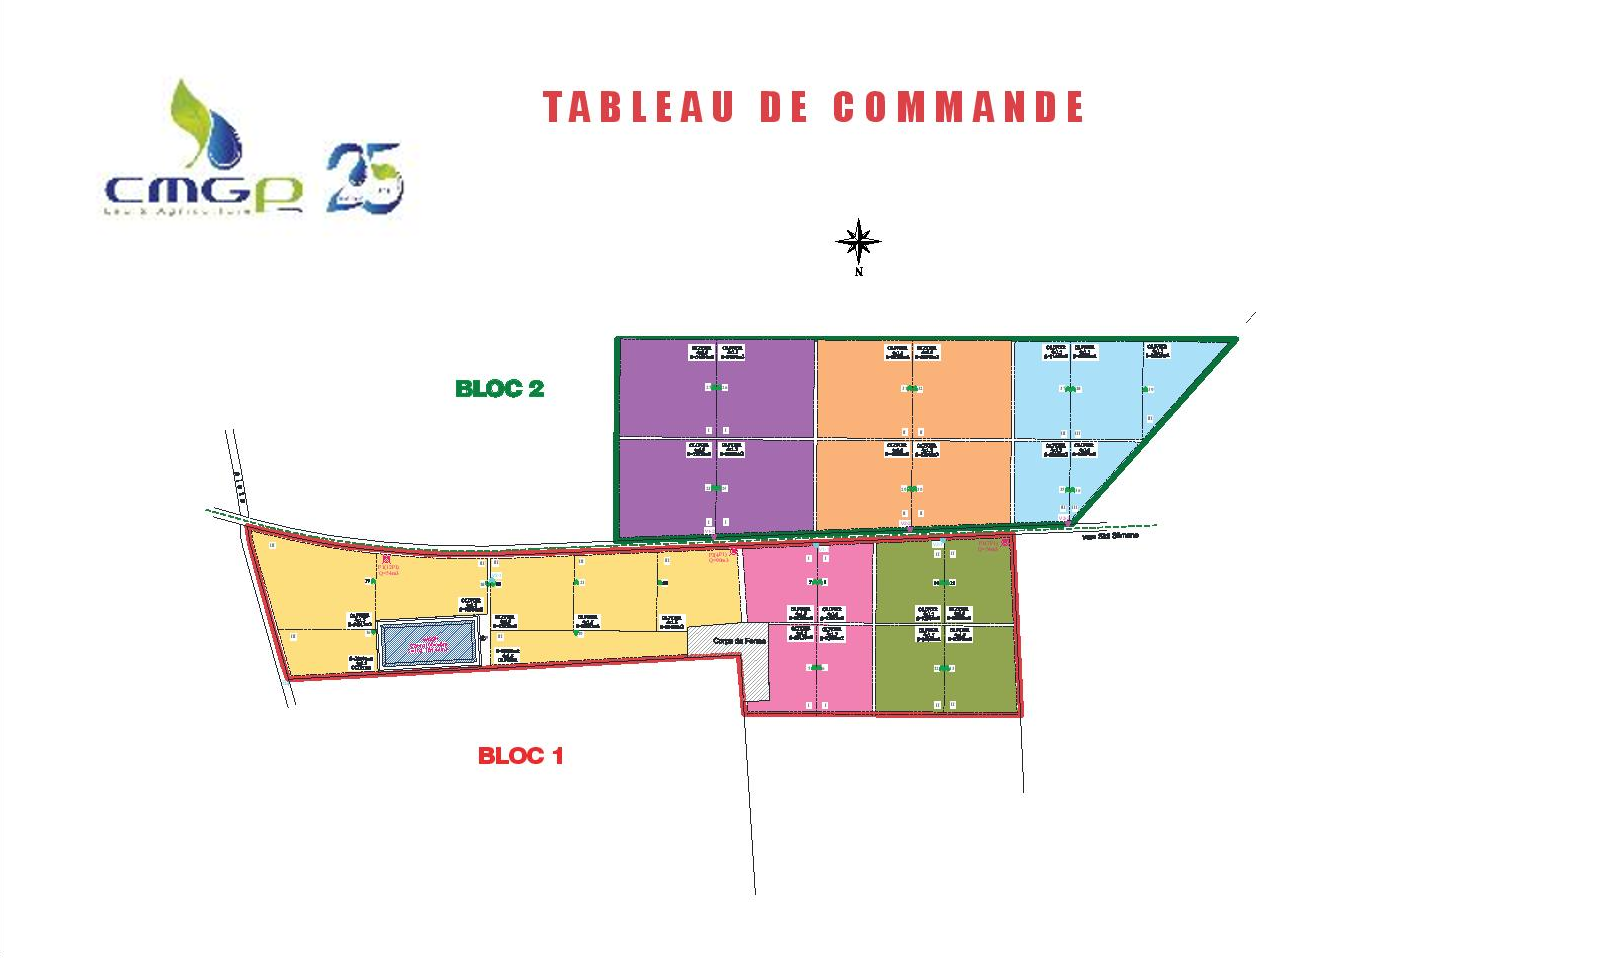
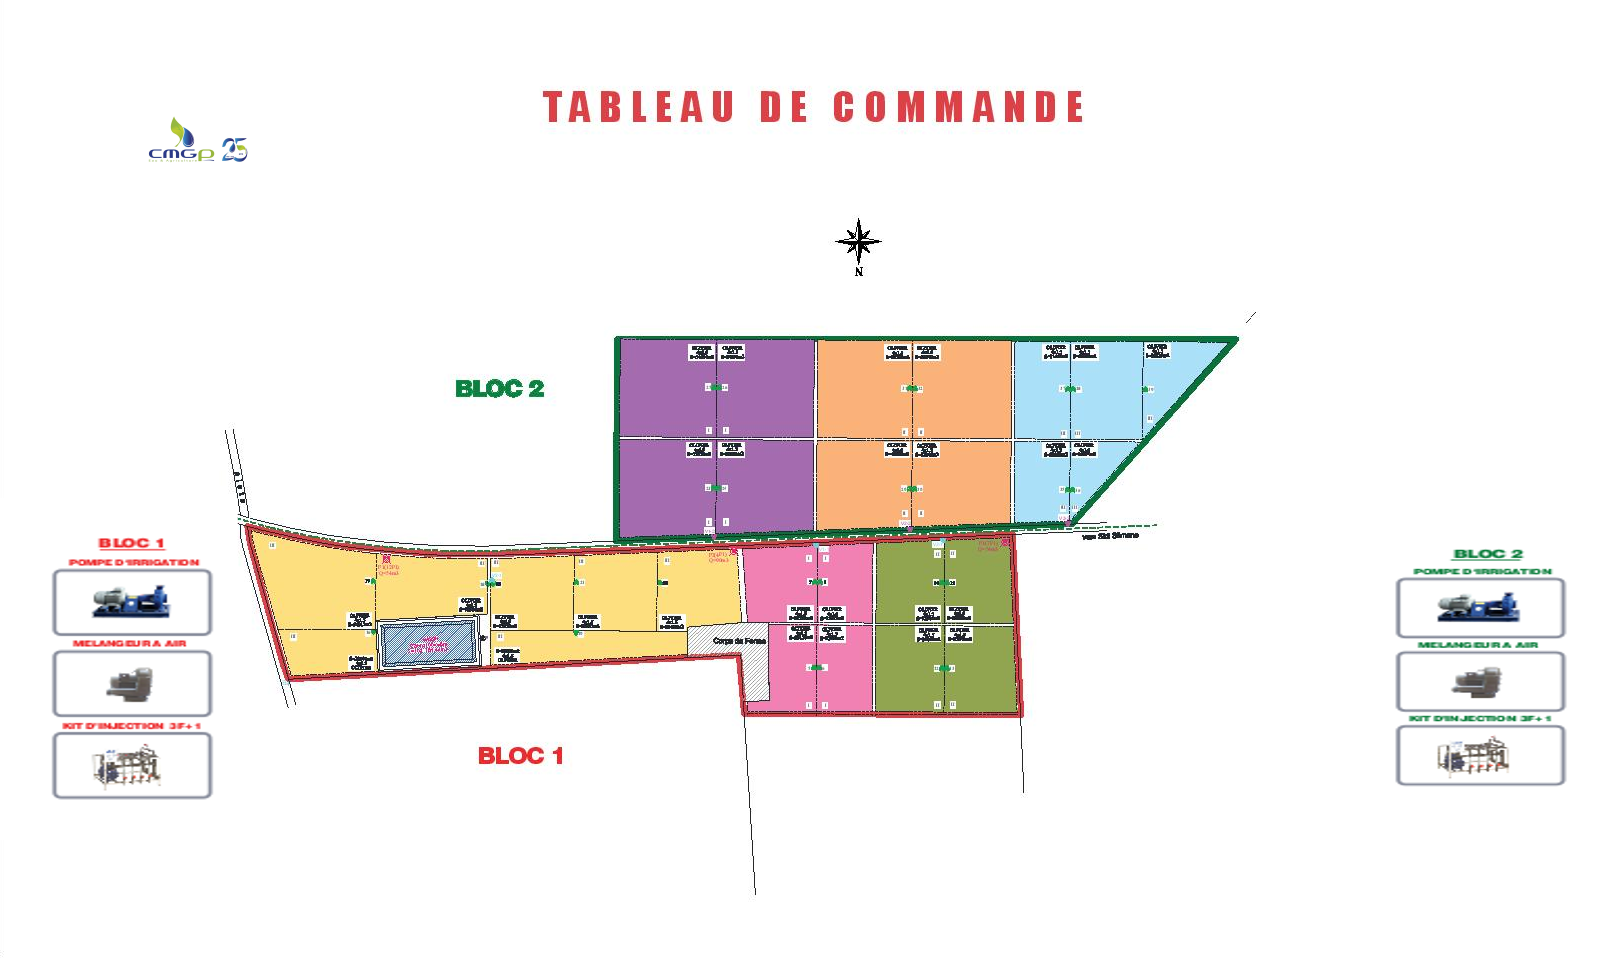
add motors

diff --git a/Dashboard.qml b/Dashboard.qml
@@ -16,8 +16,8 @@ Image {
 
         anchors.left: parent.left
         anchors.leftMargin: parent.width/100
-        anchors.bottom: sideB2.top
-        anchors.bottomMargin: parent.width/80
+        anchors.top: parent.top
+        anchors.topMargin: (380/staticw)*image1.width
 
         width: sideB2.width
         height: width
@@ -38,8 +38,8 @@ Image {
 
         anchors.left: parent.left
         anchors.leftMargin: parent.width/100
-        anchors.verticalCenter: parent.verticalCenter
-
+        anchors.top: parent.top
+        anchors.topMargin: (380/staticw)*image1.width
         width: parent.width / 18
         height: width
         color: switcher ? "#5caa15" : "#80c342"

diff --git a/main.cpp b/main.cpp
@@ -1,6 +1,7 @@
 #include <QGuiApplication>
 #include <QQmlApplicationEngine>
 #include <QQmlContext>
+#include <QScreen>
 
 #include "rootclass.h"
 #include "pdf_viewer/PdfViewer.h"
@@ -16,6 +17,12 @@ int main(int argc, char *argv[])
 
 
     QGuiApplication app(argc, argv);
+    QScreen *screen = QGuiApplication::primaryScreen();
+    QRect  screenGeometry = screen->geometry();
+    int height = screenGeometry.height();
+    int width = screenGeometry.width();
+    qInfo()<<"main height"<<height<<"width"<<width;
+
     RootClass rootclass;
     QQmlApplicationEngine engine;
     engine.addImportPath("qrc:/");
@@ -26,9 +33,10 @@ int main(int argc, char *argv[])
         if (!obj && url == objUrl)
             QCoreApplication::exit(-1);
     }, Qt::QueuedConnection);
+    engine.rootContext()->setContextProperty( "rootclass", &rootclass );
+
     engine.load(url);
     //engine.rootContext()->setContextProperty("myModel", QVariant::fromValue(dataList));
 
-    engine.rootContext()->setContextProperty( "rootclass", &rootclass );
     return app.exec();
 }

diff --git a/rootclass.cpp b/rootclass.cpp
@@ -15,8 +15,7 @@ void SyslogMessageHandler(QtMsgType type, const QMessageLogContext &context, con
           syslog(LOG_INFO, "Example2 (info): %s", localMsg.constData());
           break;
       case QtWarningMsg:
-          fprin    qDebug()<<"buttonClick go : "<<id<<state;
-tf(stderr, "Warning: %s\n", localMsg.constData());
+          fprintf(stderr, "Warning: %s\n", localMsg.constData());
           syslog(LOG_WARNING, "Example2 (warning): %s", localMsg.constData());
           break;
       case QtCriticalMsg:
